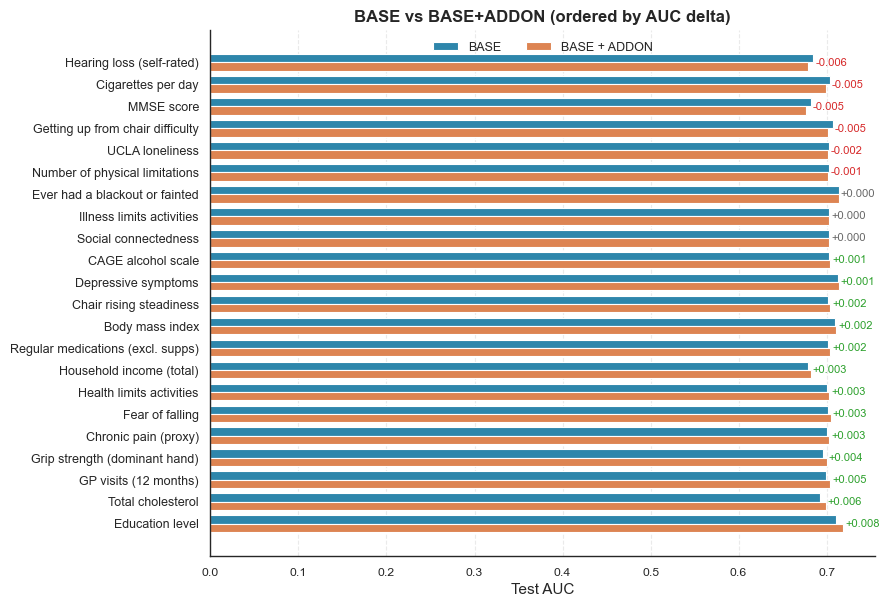
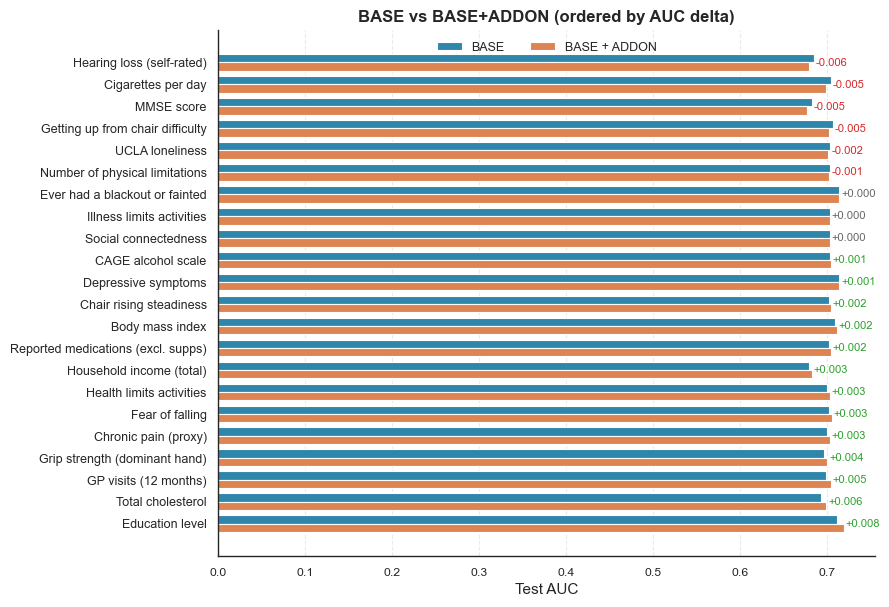
Minor feature label fixes & consistency alignment in section feature importance

diff --git a/5_chapter5/chapter5.tex b/5_chapter5/chapter5.tex
@@ -345,6 +345,7 @@ For outcomes where the all features strategy produced train \gls{AUC} substantia
 For family history targets, feature reduction worsened rather than helped. With only 20 features, the model is further constrained in its ability to identify even proxy signal for family reported diagnoses. This is consistent with the broader point that the target type, rather than the feature count, drives instability in these models.
 
 The overall pattern across Track~B is consistent with the preprocessing decisions made in Chapter~\ref{sc:manual_var_filtering}. Variables were excluded during the manual filtering stage if they exceeded the missingness threshold, exhibited constant values, or had a single response category dominating more than approximately 90\% of observations. This process improved overall signal quality, but it also reduced the number of available predictors for outcomes that are inherently sparse or indirectly measured. Outcomes with rich, well distributed predictor signals, such as functional decline and fear of falling, benefited most. Outcomes dependent on rare or indirect signals, such as Alzheimer's family history or cardiac procedure, remained constrained by both the target definition and the reduced predictor space. The results in Figure~\ref{fig:trackb_scatter_plot} should therefore be interpreted not only as a function of modelling choices, but as a reflection of data availability and the structural properties of each outcome in \gls{TILDA}.
+
 % -------- feature importance --------
 \section{Model interpretability and feature importance}\label{sc:feature_importance}
 Feature importance analysis across all designs reveals three consistent findings. First, predictive signal is concentrated in a small, highly redundant set of health burden indicators, primarily spanning the Physical/Clinical and Functional thematic domains defined in Chapter~\ref{sc:thematic_domains}, with other domains adding little additional discriminative information beyond the baseline feature set. Second, the most important predictors shift fundamentally between designs: objective clinical biomarkers dominate the 8 year prediction window in D1, while medication burden and self-rated health dominate the 2 year transitions in D2 and D3. Third, no single domain specific predictor adds statistically significant predicitive value. This remained true within the constraints of the available features and model specification, as confirmed by the add-on analysis. Full feature importance bar plots for D1 and D2 across all four model families are provided in Appendix~\ref{app:top20_features}. Figure~\ref{fig:add_on_fig} displays the add-on $\Delta$delta visualisation.
@@ -361,12 +362,12 @@ Shifting from D1 to D2 produced a major change in the importance landscape (see 
 
 Medication count excluding supplements ranked first in \gls{XGB} ($0.068$), \gls{RF} ($0.115$), and \gls{MLP} ($0.012$) in D2. Polypharmacy indicators, total medication counts including supplements, and extended medication burden measures collectively occupied much of the top 10 across all four model families. This shift reflects the change in prediction target from ICD10 coded hospitalisation over 8 years (D1) to self-reported chronic illness over 2 year transitions (D2). Over shorter windows, medication burden is a closer indicator of health deterioration: a participant already taking multiple medications at baseline is substantially more likely to report chronic illness at the next wave.
 
-Self-rated general health ranked first for \gls{LR} ($0.150$) and appeared in the top six for all model families. This predictor is one of the most consistently reported predictors of subsequent morbidity and mortality in older adult cohorts~\cite{moguilnerImportanceAgePrediction2021}, and its prominence here validates the predictive framework. Comparative self-rated health, capturing how participants assess their health relative to peers of the same age, also appeared in the top-20 across all models.
+Self-rated general health ranked first for \gls{LR} ($0.150$) and appeared in the top six for all model families. This predictor is one of the most consistently reported predictors of subsequent morbidity and mortality in older adult cohorts~\cite{moguilnerImportanceAgePrediction2021}, and its prominence here validates the predictive framework. Comparative self-rated health, capturing how participants assess their health relative to peers of the same age, also appeared in the top-20 across \gls{LR}, \gls{XGB} and \gls{RF} models.
 
 Pain related variables contributed substantially in D2. Chronic pain limiting activities, pain severity, and any chronic pain indicator all ranked consistently across model families. Chapter~\ref{sc:gaps_literature} identified chronic pain as a marker of underlying functional decline and a strong predictor of subsequent disease burden~\cite{lairdPhysicalActivityDepression2023}. Functional disability items, specifically difficulty getting up from a chair after sitting, chair rising steadiness, and aggregate physical limitation counts, rounded out the top predictors. Healthcare utilisation variables, general practitioner visit frequency and outpatient visit frequency, also appeared, reflecting that participants who engage heavily with the health system consistently showed elevated risk of incident chronic illness at the next wave.
 
 \subsection{Cross model consistency and the D3 feature set} 
-A notable finding across D2 is the high degree of agreement between model families regarding which features matter. The top five features by \gls{XGB} gain, \gls{RF} Gini importance, \gls{LR} absolute coefficient magnitude, and \gls{MLP} permutation importance show substantial overlap in the highest ranked predictors, with only minor ordering differences. This cross model agreement strengthens confidence that these represent genuine risk signals rather than model specific effects of any single modelling approach. % can we replace teh word artefact here with something more precise?
+A notable finding across D2 is the high degree of agreement between model families regarding which features matter. The top five features by \gls{XGB} gain, \gls{RF} Gini importance, \gls{LR} absolute coefficient magnitude, and \gls{MLP} permutation importance show substantial overlap in the highest ranked predictors, with only minor ordering differences. This cross model agreement strengthens confidence that these represent genuine risk signals rather than model specific effects of any single modelling approach.
 
 The D3 and Track~B top-20 feature set was derived directly from \gls{XGB} gain importance in D2 and applied unchanged across all four D3 model families and all Track~B disease specific models. Table~\ref{tab:top20_features_gain} lists this feature set with thematic domain assignments following the domains described in Section~\ref{sc:manual_var_filtering}.
 
@@ -379,11 +380,11 @@ The D3 and Track~B top-20 feature set was derived directly from \gls{XGB} gain i
 \toprule
 Feature label & Description & Thematic domain \\
 \midrule
-Regular medications (excl.\ supps) & Total regular medications excluding supplements & Physical/Clinical \\
+Reported medications (excl.\ supps) & Total reported medications excluding supplements & Physical/Clinical \\
 Chronic pain (proxy) & Frequency of pain experienced & Functional/Symptom \\
 Polypharmacy (excl.\ supps) & Taking five or more medications excluding supplements & Physical/Clinical \\
-Regular medications ($\geq$4) & Number of regular medications including supplements & Physical/Clinical \\
-Regular medications (count) & All reported medications including supplements & Physical/Clinical \\
+Regular medications & Number of regular medications including supplements & Physical/Clinical \\
+Reported medications & Number of reported medications including supplements & Physical/Clinical \\
 Self-rated health & General self-rated health (excellent to poor) & Physical/Clinical \\
 Number of physical limitations & Count of activity limitations from mobility items & Functional \\
 Health limits activities & Health problem limits kind or amount of activities & Functional \\
@@ -397,8 +398,8 @@ Chronic pain & Any chronic pain present & Functional/Symptom \\
 Chair rising steadiness & Steadiness when getting up from a chair & Functional \\
 Hospital visits (12 months) & Number of outpatient visits in past 12 months & Physical/Clinical \\
 Getting up from chair difficulty & Difficulty getting up from a chair after sitting & Functional \\
-Functional difficulty (7) & Difficulty stooping, kneeling, or crouching & Functional \\
-Health vs.\ peers & Self-rated health compared with others of same age & Physical/Clinical \\
+Functional difficulty & Difficulty stooping, kneeling, or crouching & Functional \\
+Health vs peers & Self-rated health compared with others of same age & Physical/Clinical \\
 \bottomrule
 \end{tabular}
 }
@@ -407,14 +408,14 @@ Health vs.\ peers & Self-rated health compared with others of same age & Physica
 The feature set spans two primary thematic domains: Physical/Clinical (medication counts, self-rated health, healthcare utilisation) and Functional (mobility difficulty, pain, physical limitation), with one Lifestyle item (flu vaccination). Nutritional and metabolic biomarkers, psychological and cognitive measures, and sociodemographic variables are absent from the top-20.
 
 \subsection{Predictor add-on analysis} 
-The add-on analysis evaluated the incremental contribution of individual candidate features to the prediction of functional decline (\texttt{DISlongterm}) using a BASE versus BASE+ADDON framework. For each candidate, a model was trained on all available predictors except that candidate (BASE), then retrained with it included. The baseline cohort and feature set are determined dynamically for each candidate. Only waves in which both the outcome target and available candidate feature were included, causing cohort size and feature count to vary. For example, when difficulty walking 1~km served as the candidate, the analysis included waves 1 to 3, yielding 929 held out test participants and approximately 570 features entering the model after the missingness filter. When education level served as the candidate, waves 3 to 5 were used, yielding 660 test participants and approximately 464 features. The delta in \gls{AUC} and average precision (\gls{AP}) was estimated with bootstrapped 95\% \gls{CI}s ($B = 2{,}000$ resamples on the held out test set). Full delta results are shown in Figure~\ref{fig:add_on_fig}. The candidates span lifestyle, socioeconomic, cognitive, nutritional, and social domains, including features from thematic domains~\ref{tab:pmf_prefixes} not represented in the top-20 feature set.
+The add-on analysis evaluated the incremental contribution of individual candidate features to the prediction of functional decline (\texttt{DISlongterm}) using a BASE versus BASE+ADDON framework. For each candidate, a model was trained on all available predictors except that candidate (BASE), then retrained with it included. The baseline cohort and feature set are determined dynamically for each candidate. Only waves in which both the outcome target and the candidate feature were present were used, meaning cohort size and feature count varied across candidates. For example, when a history of blackout or fainting served as the candidate feature, the analysis included waves 1 to 3, yielding 929 held-out test participants and approximately 570 features entering the model after the missingness filter. When education level served as the candidate, waves 3 to 5 were used, yielding 660 test participants and approximately 464 features. The delta in \gls{AUC} and average precision (\gls{AP}) was estimated with bootstrapped 95\% \gls{CI}s ($B = 2{,}000$ resamples on the held-out test set). Full delta results are shown in Figure~\ref{fig:add_on_fig}. The candidates span lifestyle, socioeconomic, cognitive, nutritional, and social domains, including features from thematic domains~\ref{tab:pmf_prefixes} not represented in the top-20 feature set.
 
 Given the large baseline feature sets entering each comparison, marginal gains from a single additional candidate feature are expected to be small. The purpose of the analysis is therefore to assess whether any domain contributes unique predictive information beyond this baseline rather than to achieve statistically significant improvements. No candidate produced a statistically significant improvement across any metric. Every \gls{AUC} delta \gls{CI} crossed zero. Selected results, organised by domain cluster, are as follows.
 \begin{enumerate}[label= (\roman*)]
-    \item \textbf{Functional predictors} (walking difficulty, chair rising difficulty, physical limitations, chair rising steadiness). The highest BASE \gls{AUC} in the study ($0.714$, CV $0.726 \pm 0.009$) occurred when the candidate feature was difficulty walking 1~km, confirming its strong individual signal. Adding it to the BASE produced zero marginal gain (\gls{CI}: $[-0.007, 0.007]$). Chair rising difficulty ($[-0.012, 0.002]$), physical limitation count ($[-0.008, 0.007]$), and chair rising steadiness ($[-0.006, 0.010]$) showed similarly null deltas. The \gls{NOS} table in Chapter~\ref{tab:lr_table} identified gait speed, chair stand performance, and physical limitation as primary frailty indicators in \gls{TILDA}~\cite{davisComparisonGaitSpeed2021}. The small incremental contributions are consistent with strong correlation across functional predictors: pain, steadiness, and mobility difficulty items share their predictive variance, and none appears to contribute substantial independent information beyond the others.
+    \item \textbf{Functional predictors} (chair rising difficulty, physical limitations, chair rising steadiness, \gls{FOF}). Among the functional candidates, the highest BASE \gls{AUC} occurred when getting up from a chair difficulty served as the candidate feature ($0.707$). Adding it to the BASE produced a near zero marginal gain (\gls{CI}: $[-0.012, 0.002]$). Physical limitation count (\gls{CI}: $[-0.008, 0.007]$) and chair rising steadiness (\gls{CI}: $[-0.006, 0.010]$) showed similarly null deltas. The \gls{NOS} table in Chapter~\ref{tab:lr_table} identified gait speed, chair stand performance and physical limitation as primary frailty indicators in \gls{TILDA}~\cite{davisComparisonGaitSpeed2021}. The small incremental contributions are consistent with strong correlation across functional predictors: pain, steadiness, and mobility difficulty items share their predictive variance, and none appears to contributes substantial independent information beyond the others.
     \item \textbf{Socioeconomic predictors} (education level, household income). Education level produced the largest observed positive delta, with Test \gls{AUC} moving from $0.711$ to $0.719$ (\gls{CI}: $[-0.002, 0.018]$). The direction is consistent with the examined literature on social disadvantage~\cite{mccrorySocialDisadvantageSocial2016}, although the interval crosses zero and the effect cannot be confirmed statistically. Total household income produced a smaller positive trend ($[-0.004, 0.010]$). The smaller effect likely reflects alignment with healthcare utilisation and employment status predictors already in the BASE.\
     \item \textbf{Psychosocial and mental health predictors} (UCLA loneliness, depressive symptoms, social connectedness). UCLA loneliness produced no detectable effect (\gls{CI}: $[-0.009, 0.006]$). Depressive symptoms produced a small positive delta of $+0.001$ (\gls{CI}: $[-0.008, 0.010]$). Social connectedness showed similarly minimal movement (\gls{CI}: $[-0.008, 0.007]$). Chapter~\ref{sc:mental_health} documented bidirectional links between \gls{SOC} (social isolation, depression, and functional health) in \gls{TILDA}~\cite{santiniProtectivePropertiesActBelongCommit2017,jacobFallsIncreaseRisk2023}. The null deltas do not contradict these associations, they indicate that the relevant pathways are already captured within the functional and pain predictors present in the BASE.\
-    \item \textbf{Physical and behavioural predictors} (grip strength, \gls{BMI}, cigarettes per day, CAGE alcohol scale). Grip strength produced a positive delta of $+0.004$ (\gls{CI}: $[-0.004, 0.012]$). The literature review chapter identifies grip strength as a primary frailty marker in \gls{TILDA}~\cite{romero-ortunoTransitionsFrailtyPhenotype2021}, the near zero increment confirms that the functional limitation variables in the BASE already capture this frailty related signal.\ \gls{BMI} produced $+0.002$ (\gls{CI}: $[-0.007, 0.012]$). Cigarettes per day trended slightly negative ($[-0.012, 0.002]$), and the CAGE alcohol scale contributed minimally ($[-0.004, 0.008]$).
+    \item \textbf{Physical and behavioural predictors} (grip strength, \gls{BMI}, cigarettes per day, CAGE alcohol scale, history of blackout or fainting). Grip strength produced a positive delta of $+0.004$ (\gls{CI}: $[-0.004, 0.012]$). Chapter~\ref{ch:chapter2} identifies grip strength as a primary frailty marker in \gls{TILDA}~\cite{romero-ortunoTransitionsFrailtyPhenotype2021}; the near zero increment confirms that the functional limitation variables in the BASE already capture this frailty related signal.\ \gls{BMI} produced $+0.002$ (\gls{CI}: $[-0.007, 0.012]$). Cigarettes per day trended slightly negative ($[-0.012, 0.002]$), and the CAGE alcohol scale contributed minimally ($[-0.004, 0.008]$). A history of blackout or fainting produced the highest BASE \gls{AUC} in the study ($0.714$, CV $0.726 \pm 0.009$), indicating a BASE model that is already performing strongly when this variable is withheld. Adding it back yielded no further gain (\gls{CI}: $[-0.007, 0.007]$), suggesting its signal is captured through correlated cardiovascular and health burden predictors already present in the BASE.\
 \end{enumerate}
 
 \begin{figure}[ht]
@@ -426,74 +427,3 @@ Given the large baseline feature sets entering each comparison, marginal gains f
 Across all designs and model families, predictive signal across these related health outcomes was concentrated within a highly correlated pattern of indicators associated with accumulated health burden. Medication load, self-rated health, pain frequency and severity, and mobility difficulty collectively capture most of the discriminative signal available in this dataset: social, cognitive, nutritional, and behavioural domains showed weak positive trends but no independent contribution, within the context of the available feature set and model specification. This is supported by two convergent findings. Restricting D3 to 20 features produced no reduction in performance, and no add-on candidate improved discrimination significantly. Together, these results suggest that for 2-year transitions in this cohort, the signal structure reflects a highly correlated cluster of burden indicators rather than a set of separable domain specific risk factors.
 
 \section{Error analysis}
-
-% Keep this section concise:
-% Goal is NOT to repeat performance metrics.
-% Focus instead on:
-% (i) where models fail,
-% (ii) patterns in FP/FN cases,
-% (iii) correlation structure among strongest predictors and outcomes.
-
-% Suggested structure:
-% 1. Brief paragraph on false positives and false negatives.
-% 2. Heatmap showing relationships between outcomes used:
-%    - ph003
-%    - DISlongterm
-%    - ICD10_ANY
-%    - medication burden variables
-%    - pain variables
-%    - functional limitation variables
-%    - self-rated health variables
-% 3. Final short interpretation paragraph linking errors to:
-%    - latent frailty / health burden structure
-%    - sparse incidence outcomes
-%    - self-report limitations
-%    - longitudinal transition uncertainty
-
-% Suggested interpretation:
-% False positives may reflect participants with elevated frailty
-% burden who did not progress to formal disease onset during the
-% prediction window.
-%
-% False negatives likely reflect disease processes not fully captured
-% by baseline self-reported variables or outcomes with sparse incidence.
-%
-% Heatmap should support the broader finding that most predictive
-% variables cluster around a shared health burden structure,
-% explaining why feature reduction in D3 caused minimal loss in AUC
-% and why add-on predictors produced limited incremental gain.
-% Suggested heatmap variables:
-% Outcomes:
-% - ph003
-% - DISlongterm
-% - ICD10_ANY
-%
-% Strong D2/D3 predictors:
-% - MDmeds4
-% - Self-rated health
-% - Pain severity
-% - Pain limits activities
-% - Physical limitation count
-% - GP visits
-% - Hospital visits
-% - Chair rising difficulty
-% - Walking steadiness
-% - Health vs peers
-%
-% Optional:
-% - BMI
-% - Grip strength
-% - Age
-\subsection{Misclassification patterns}
-
-[1 short paragraph]
-
-\subsection{Correlation structure of major predictors}
-
-[heatmap figure]
-
-[1 interpretation paragraph]
-
-\subsection{Interpretation of residual errors}
-
-[1 short paragraph]